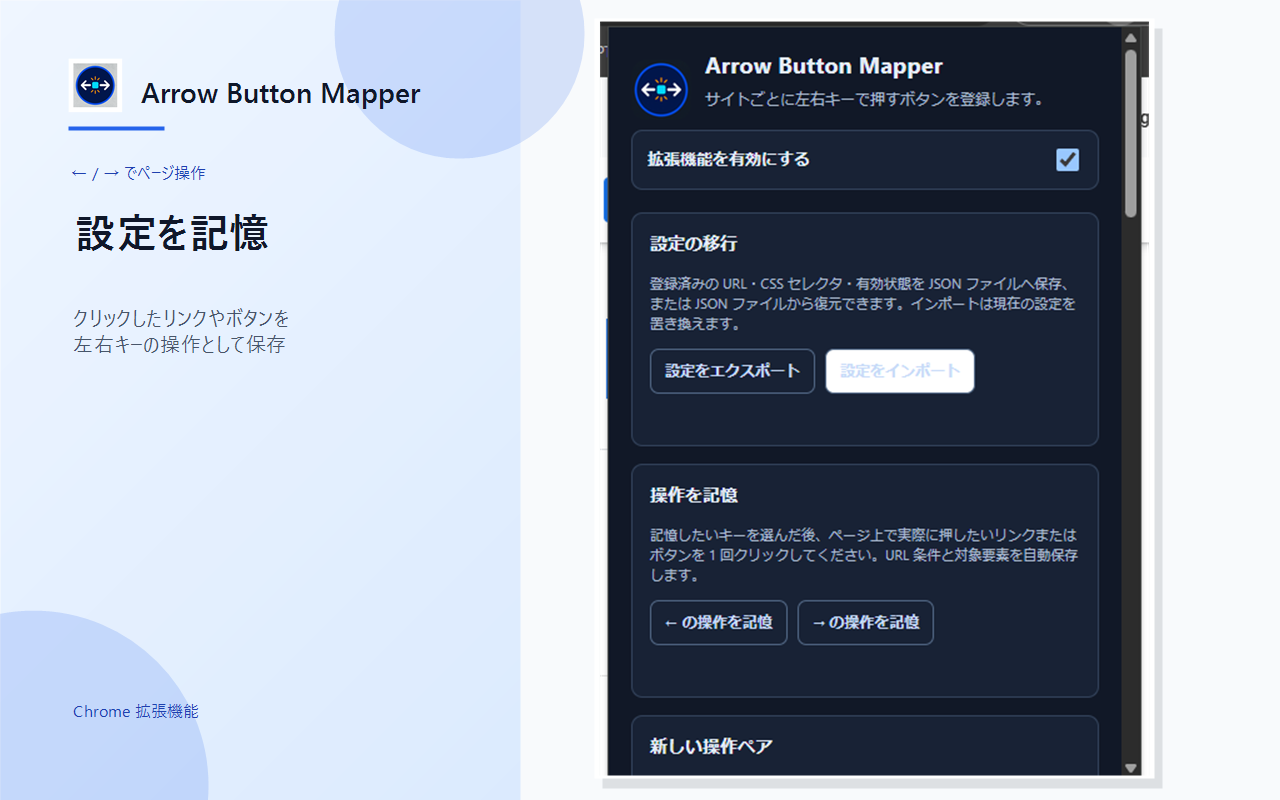
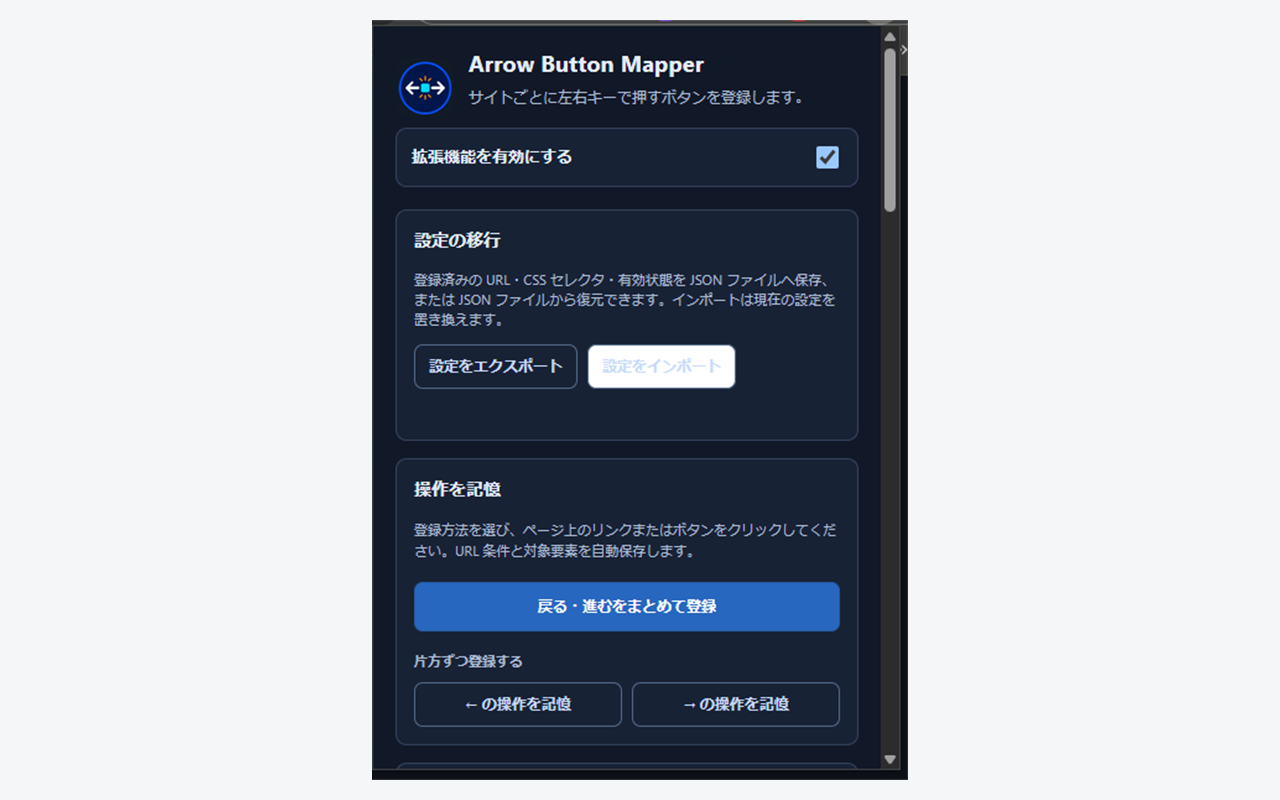
Prepare Chrome Web Store release 2.5.0

diff --git a/docs/chrome-web-store/release-2.5.0.md b/docs/chrome-web-store/release-2.5.0.md
@@ -1,0 +1,62 @@
+# Chrome Web Store 更新用セット（2.5.0）
+
+このファイルは入力用の案です。Dashboard に表示される項目と公開中の設定を確認してから貼り付けてください。掲載画像と拡張機能パッケージはテキストではなくファイルとしてアップロードします。
+
+## 公開前の確認
+
+1. ストアの現在のバージョンが **2.5.0 より小さい**ことを確認する。同じか大きい場合、`manifest.json` のバージョンを現在版より大きい番号に変更し、ZIP を作り直す。
+2. `contextMenus` 権限が追加されていることと、プライバシー申告を確認する。
+3. 公開中のプライバシーポリシー URL に、右クリック登録を追記した最新版が表示されることを確認する。このリポジトリのローカル変更は GitHub に反映するまで公開 URL に表示されない。
+4. 画像に個人情報がないことを確認する。3 枚目には以前撮影したサンプルの `qiita.com` の URL が含まれる。不要であれば 1・2 枚目だけを使用する。
+
+## パッケージと画像
+
+- 拡張機能の ZIP: `C:\Users\teni2\AppData\Local\Temp\opencode\arrow-button-mapper-2.5.0.zip`
+- スクリーンショット 1: `docs/chrome-web-store/assets/screenshots/1.png`
+- スクリーンショット 2: `docs/chrome-web-store/assets/screenshots/2.png`
+- スクリーンショット 3: `docs/chrome-web-store/assets/screenshots/3.png`（以前撮影した登録済み画面）
+- マーキープロモーションタイル: `docs/chrome-web-store/assets/marquee-1400x560.png`（1400×560、24 ビット PNG）
+
+スクリーンショットはすべて 1280×800、24 ビット PNG。左側の説明文はありません。アイコンと小さいプロモーションタイルは今回変更していないため、既存の掲載画像を維持できます。
+
+## 概要（Item summary）
+
+```text
+Webページの「前へ」「次へ」を、サイトごとに ← / → キーへ割り当てる拡張機能です。
+```
+
+## 詳細説明（Detailed description）
+
+[dashboard/detailed-description.md](dashboard/detailed-description.md) の本文をそのまま貼り付けてください。
+
+## 更新内容（入力欄がある場合）
+
+```text
+・戻る・進むの対象を続けて登録できるようにしました。
+・リンクやボタンの右クリックメニューから、左右キーへの登録ができるようにしました。
+・操作を記憶する画面の配置を改善しました。
+```
+
+## 単一目的の説明
+
+```text
+ユーザーが指定した Web ページ上のリンクまたはボタンを、左右矢印キーで操作できるようにすること。
+```
+
+## 権限の利用目的
+
+Dashboard に表示される権限ごとに、[dashboard/permission-justifications.md](dashboard/permission-justifications.md) の該当する段落を貼り付けてください。今回新しく追加した権限は以下です。
+
+### contextMenus
+
+```text
+ユーザーがページ上のリンクやボタンを右クリックしたとき、拡張機能のメニューから ← または → に登録できるようにするために使用します。登録操作が選択された場合にのみ、対象のセレクタを設定として保存します。
+```
+
+## その他の確認項目
+
+- データ利用・Limited Use: [dashboard/data-usage-checklist.md](dashboard/data-usage-checklist.md) を実際の設問と照合して選択。
+- リモートコード: 使用しない。[dashboard/remote-code.md](dashboard/remote-code.md) を参照。
+- サポート・プライバシーポリシー URL: [dashboard/contact-and-urls.md](dashboard/contact-and-urls.md) を参照。
+- カテゴリ・言語: [dashboard/listing-settings.md](dashboard/listing-settings.md) を参照。
+- ZIP や画像をアップロード後、ダッシュボードのプレビューと警告を確認し、審査に提出する。

diff --git a/docs/chrome-web-store/dashboard/detailed-description.md b/docs/chrome-web-store/dashboard/detailed-description.md
@@ -2,9 +2,11 @@ Arrow Button Mapper は、Webページ上の「前へ」「次へ」などのリ
 
 電子書籍ビューア、画像ギャラリー、検索結果、社内ツールなど、矢印キー操作に対応していないページでも、普段どおりのページ送りを実現できます。
 
-設定は簡単です。ポップアップで ← または → を選び、ページ上の操作したいリンク・ボタンを一度クリックするだけで、その操作を記憶します。CSS セレクタを直接入力して細かく調整することもできます。
+ポップアップから左右をまとめて登録できます。戻る、進むの順にページ上のリンクやボタンをクリックしてください。片方だけ登録することもできます。対象を右クリックし、メニューから登録する方法や、CSS セレクタを直接入力する方法もあります。
 
 - ページ上のリンク・ボタンをクリックして、左右キーの操作として記憶
+- 戻る・進むを連続で登録。片側のスキップややり直しにも対応
+- リンク・ボタンの右クリックメニューから、← または → に登録
 - URL ごとに「戻る」「進む」の操作対象を登録
 - 複数の設定が一致する場合は、より具体的な URL 条件を優先
 - URL パターンと CSS セレクタを手動で編集
@@ -12,3 +14,5 @@ Arrow Button Mapper は、Webページ上の「前へ」「次へ」などのリ
 - 入力欄や編集可能な場所では、通常の矢印キー操作を妨げない設計
 
 設定は Chrome の同期ストレージに保存されます。閲覧履歴、ページ内容、設定内容を開発者のサーバーへ送信することはありません。
+
+一部のページや iframe 内の要素では利用できません。サイトの構造が変わった場合は再登録が必要になることがあります。

diff --git a/docs/chrome-web-store/privacy-policy.md b/docs/chrome-web-store/privacy-policy.md
@@ -1,12 +1,14 @@
 # Arrow Button Mapper プライバシーポリシー
 
-最終更新日: 2026-09-19
+最終更新日: 2026-11-14
 
 Arrow Button Mapper（以下「本拡張機能」）は、ユーザーが指定した Web ページ上のリンクまたはボタンを、キーボードの ← / → キーで操作できるようにする Chrome 拡張機能です。
 
 ## 取り扱う情報
 
-本拡張機能は、ユーザーが設定した URL パターン、CSS セレクタ、拡張機能の有効・無効状態を Chrome の同期ストレージに保存します。ユーザーが「操作を記憶」を開始した場合に限り、現在のページの URL と、ユーザーがクリックしたリンクまたはボタンから作成した CSS セレクタを設定として保存します。
+本拡張機能は、ユーザーが設定した URL パターン、CSS セレクタ、拡張機能の有効・無効状態を Chrome の同期ストレージに保存します。ユーザーが「操作を記憶」または右クリックメニューから登録を行った場合、現在のページのオリジンとパス、および選択したリンクまたはボタンから作成した CSS セレクタを設定として保存します。
+
+右クリックメニューから対象を登録できるよう、HTTP / HTTPS ページ上で右クリックされた候補要素をページ内のメモリに一時的に保持します。候補の保持だけでは設定に保存しません。登録操作では、対象を特定するために ID、アクセシビリティ属性、リンク先などの要素属性を参照する場合があります。
 
 本拡張機能は、設定済みの操作を実行するために、対象ページ上で左右矢印キーと設定済み CSS セレクタを処理します。入力欄や編集可能な領域での通常のキー操作は対象にしません。
 

diff --git a/docs/chrome-web-store/dashboard/data-usage-checklist.md b/docs/chrome-web-store/dashboard/data-usage-checklist.md
@@ -4,15 +4,16 @@
 
 ## 処理するデータ
 
-- ユーザーが「操作を記憶」を開始したときのページ URL（オリジンとパスを URL パターンとして保存）
+- ユーザーがクリック記憶または右クリック登録を行ったページの URL（オリジンとパスを URL パターンとして保存）
 - ユーザーが選択したリンクまたはボタンから作った CSS セレクタ
+- セレクタを生成するために参照する対象要素の ID、属性、リンク先など。右クリックした候補要素はページ内のメモリに一時保持する
 - 拡張機能の有効・無効状態
 - ユーザーが明示的にインポートした JSON 設定ファイル
 
 ## 処理しないデータ
 
-- 閲覧中ページの本文、フォーム入力、認証情報、Cookie
-- 操作していないページの URL
+- フォーム入力、認証情報、Cookie を設定として収集する処理
+- 操作していないページの URL を設定として保存する処理（URL 条件の照合には現在のページ URL を使用する）
 - 外部サーバーへ送信するデータ、広告・分析・追跡データ
 
 ## 回答時の確認事項

diff --git a/docs/chrome-web-store/screenshots.md b/docs/chrome-web-store/screenshots.md
@@ -21,4 +21,6 @@ Chrome Web Store に登録するスクリーンショットは、公開するバ
 
 Chrome Web Store の自動操作はこの環境では制限されるため、最終的な実機撮影とダッシュボードへのアップロードは手動で行います。
 
-これらの 3 枚は、公開するバージョンの実機 UI を横長の規格サイズに整形したものです。Chrome Web Store へはこの中から 1〜3 枚をアップロードします。
+1・2 枚目は更新後の実機 UI を規格サイズに整形したものです。3 枚目は以前撮影した登録済み設定画面です。説明文は追加していません。Chrome Web Store へは 1〜3 枚をアップロードします。
+
+`skills/chrome-web-store-assets/scripts/compose-store-assets.ps1` は従来の説明文入り画像を生成するため、今回の画像を上書きしないよう実行しないでください。

diff --git a/docs/chrome-web-store/dashboard/permission-justifications.md b/docs/chrome-web-store/dashboard/permission-justifications.md
@@ -13,3 +13,7 @@ Developer Dashboard に表示された権限ごとに、該当する文面だけ
 ## `http://*/*` と `https://*/*` のページアクセス
 
 ユーザーが登録したページで左右矢印キーに対応する要素をクリックするため、またはユーザーが開始した「操作を記憶」で選択したリンク・ボタンから CSS セレクタを作るために使用します。Chrome の内部ページ、Chrome Web Store、iframe は対象にしません。ページ内容や閲覧履歴を外部送信しません。
+
+## `contextMenus`
+
+ユーザーがページ上のリンクやボタンを右クリックしたとき、拡張機能のメニューから ← または → に登録できるようにするために使用します。登録操作が選択された場合にのみ、対象のセレクタを設定として保存します。

diff --git a/docs/chrome-web-store/dashboard/listing-settings.md b/docs/chrome-web-store/dashboard/listing-settings.md
@@ -14,6 +14,7 @@
 | --- | --- | --- |
 | Store icon | `assets/store-icon-128.png` | 128 × 128 PNG |
 | Small promotional tile | `assets/promo-tile-440x280.png` | 440 × 280 PNG |
+| Marquee promotional tile | `assets/marquee-1400x560.png` | 1400 × 560、24ビット PNG |
 | Screenshots | `assets/screenshots/1.png`、`2.png`、`3.png` | 各 1280 × 800、24ビット PNG |
 
 アップロード前に、画像が公開するバージョンの実際の UI を示し、URL、個人情報、認証情報を含まないことを確認する。詳細は [screenshots.md](../screenshots.md) を参照する。
